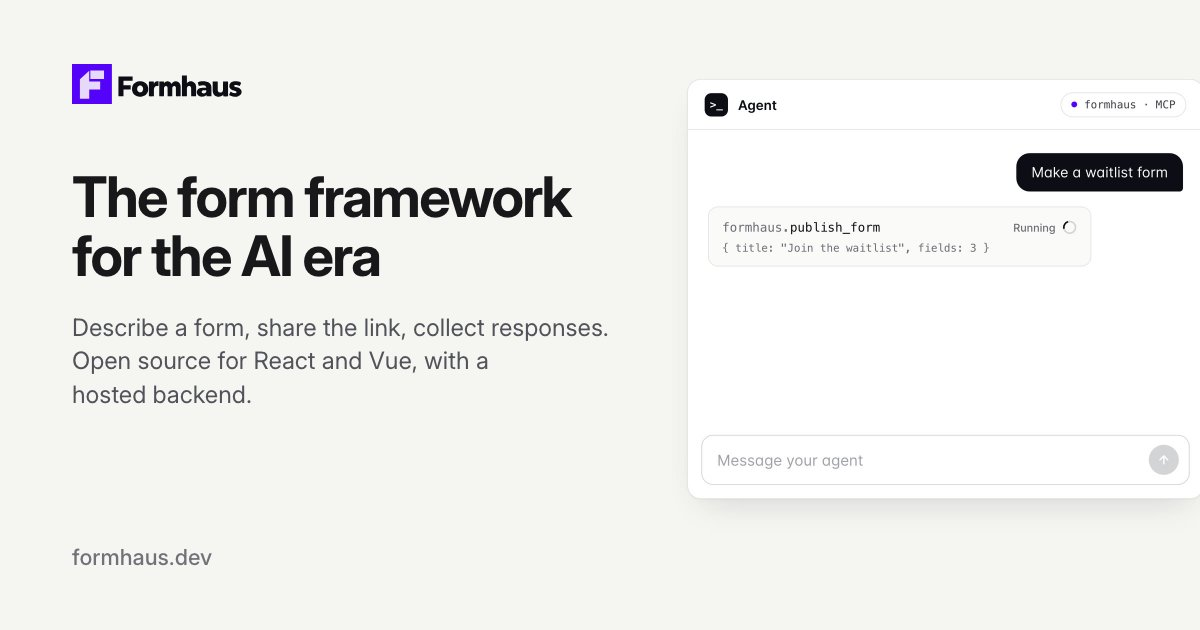
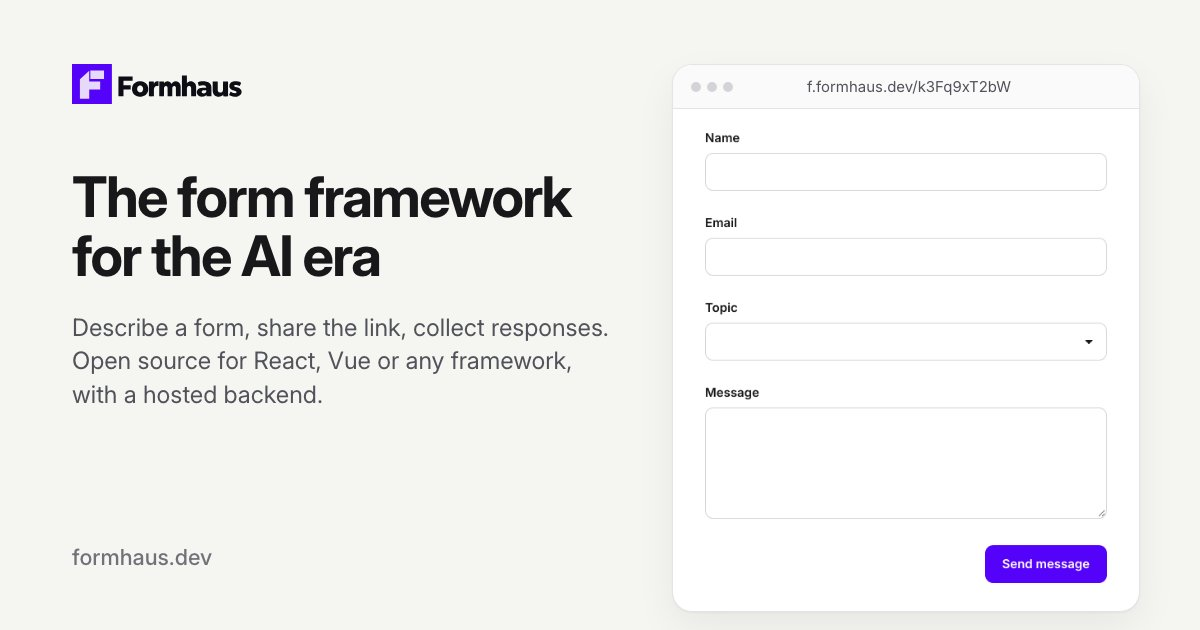
fix: home og card shows a finished form at its hosted link

diff --git a/docs/.vitepress/meta.ts b/docs/.vitepress/meta.ts
@@ -36,7 +36,7 @@ export function ogImage(relativePath: string, template?: { slug: string; title: 
   return {
     url: `${siteUrl}/og/${name}.jpg`,
     alt: name === 'home'
-      ? `${siteName}: ${section.title}, next to an agent chat that publishes a form`
+      ? `${siteName}: ${section.title}, next to a published contact form at its link`
       : `${siteName} ${section.eyebrow}: ${section.title}`,
   }
 }
